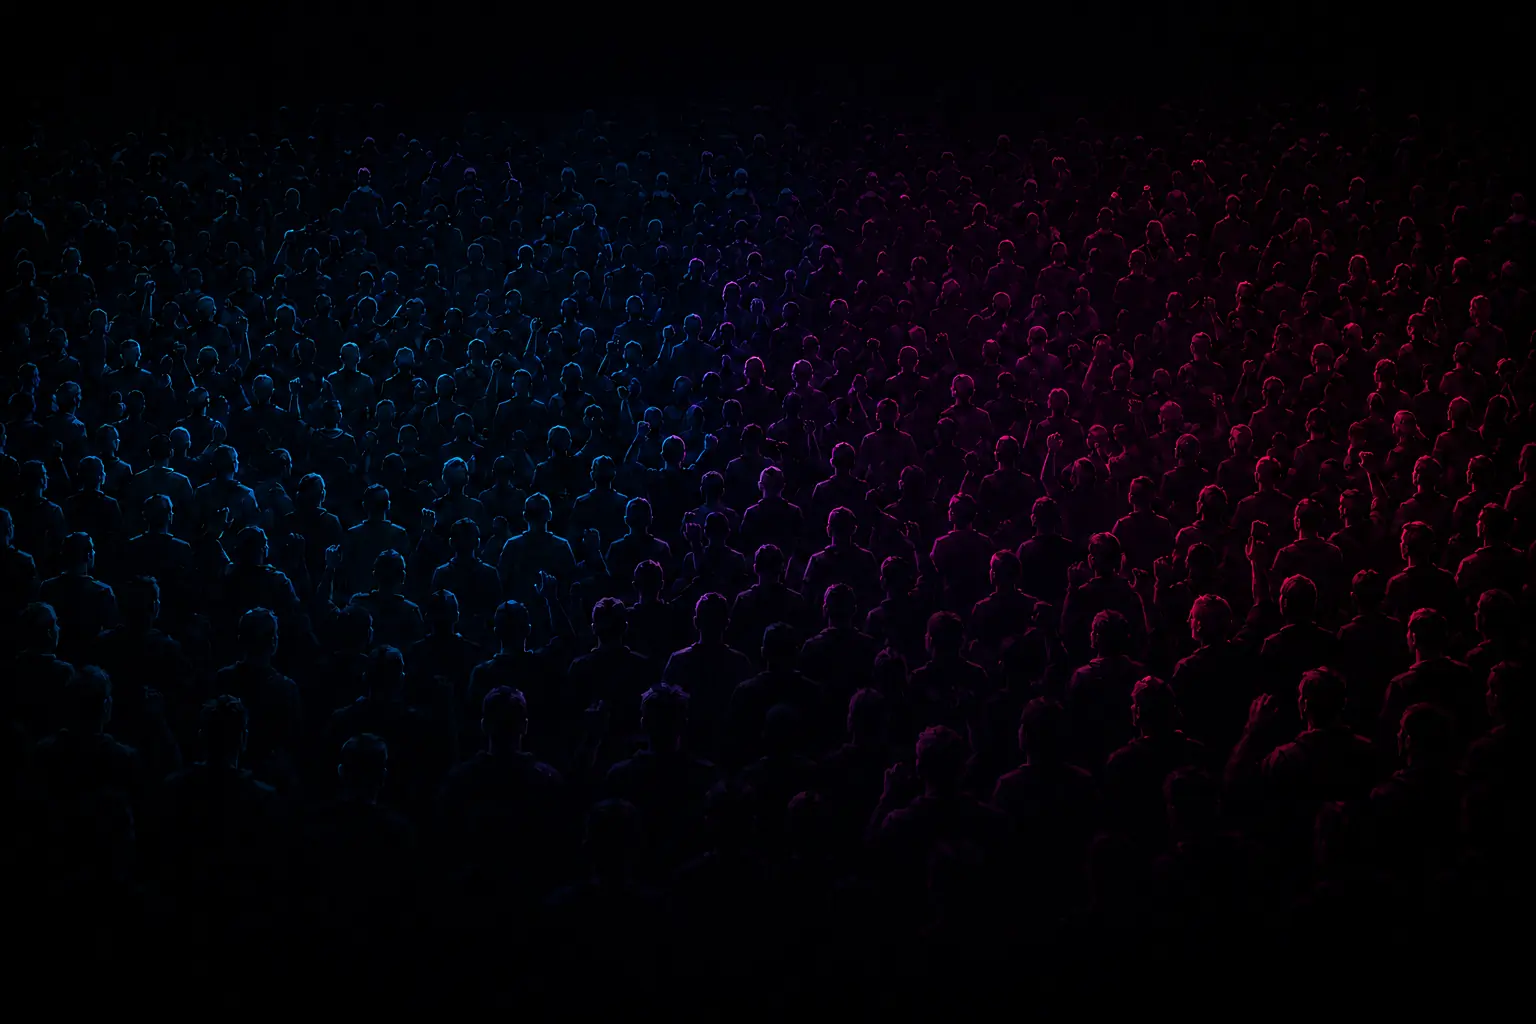
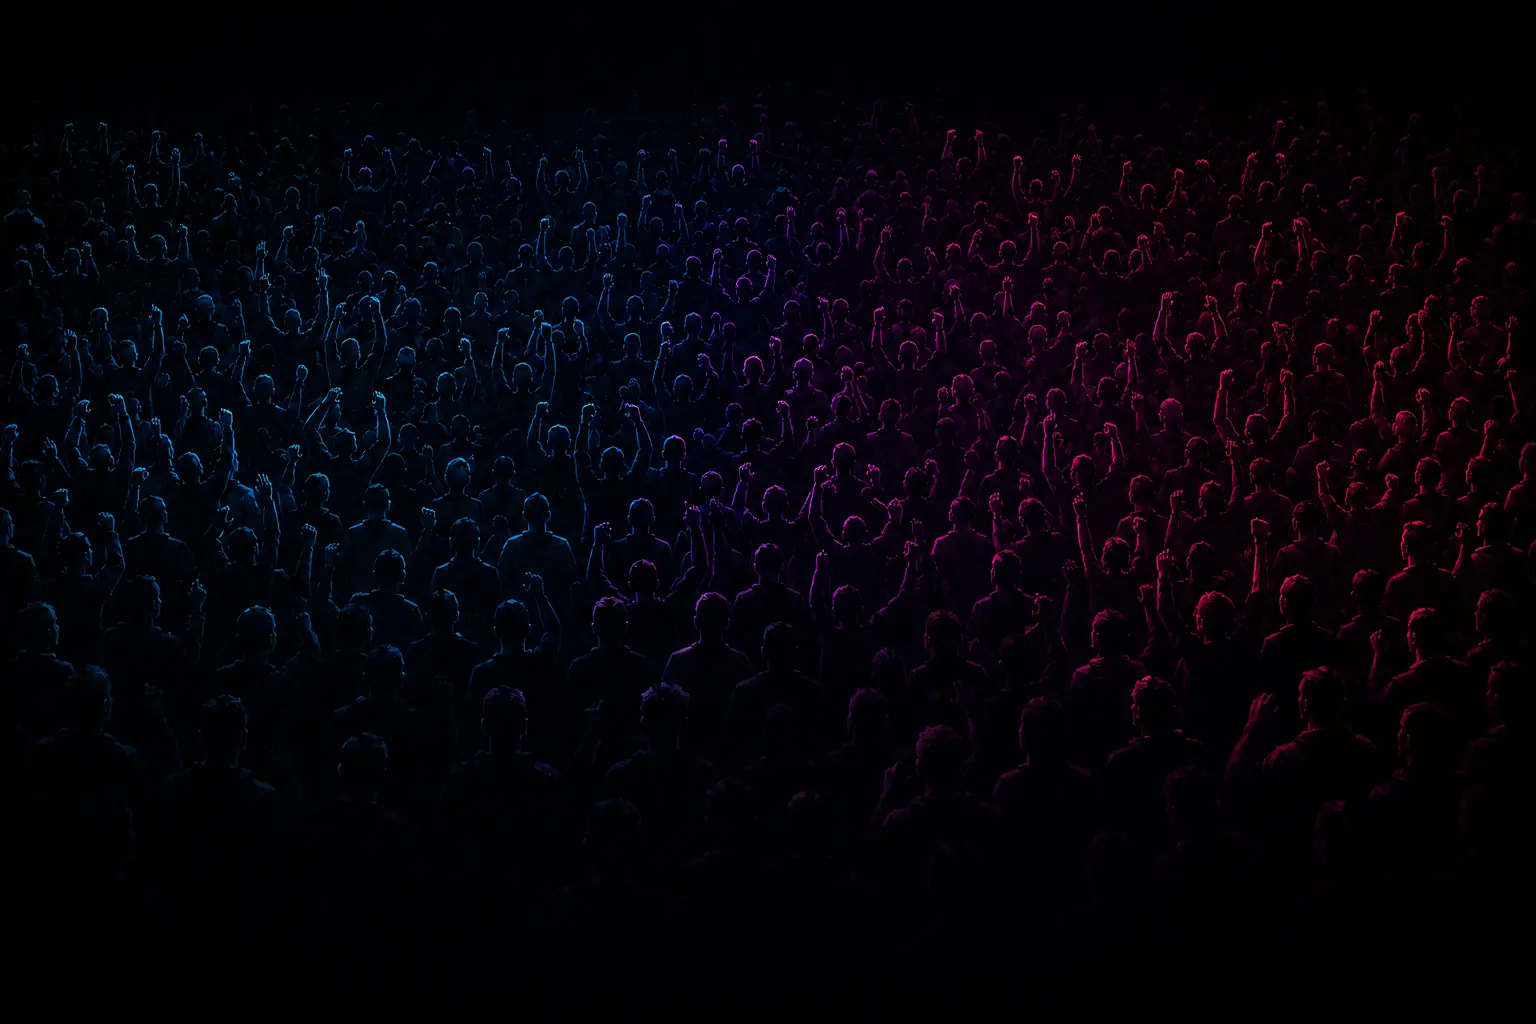
Animate jumping crowd and prune unused art

diff --git a/game.js b/game.js
@@ -103,7 +103,6 @@
     return HUD_HEALTH_STATES.find((state) => safeHealth >= state.minimum)
       ?? HUD_HEALTH_STATES.at(-1);
   };
-  const ARENA_BACKGROUND_SRC = "/assets/arenas/neon-octagon/arena.png";
   const ARENA_FOREGROUND_SRC = "/assets/arenas/neon-octagon/arena-foreground-v2.png";
   const ARENA_CROWD_FRAME_SRCS = Object.freeze([
     "/assets/arenas/neon-octagon/crowd/frame-01.webp",
@@ -111,16 +110,14 @@
     "/assets/arenas/neon-octagon/crowd/frame-03.webp",
   ]);
   const ARENA_VERTICAL_CROP_ANCHOR = 0.35;
-  const ARENA_CROWD_FRAME_SECONDS = 2;
-  const ARENA_CROWD_BLEND_FRACTION = 0.28;
+  const ARENA_CROWD_FRAME_SECONDS = 0.7;
+  const ARENA_CROWD_BLEND_FRACTION = 0.35;
   const ARENA_REDUCED_MOTION = globalThis.matchMedia?.("(prefers-reduced-motion: reduce)")?.matches ?? false;
 
   const ANIMATION_MANIFEST = globalThis.NEON_BRAWL_ANIMATIONS;
   if (!ANIMATION_MANIFEST) {
     throw new Error("Animation manifest must load before game.js");
   }
-  const arenaBackgroundImage = new Image();
-  arenaBackgroundImage.src = ARENA_BACKGROUND_SRC;
   const arenaForegroundImage = new Image();
   arenaForegroundImage.src = ARENA_FOREGROUND_SRC;
   const arenaCrowdImages = ARENA_CROWD_FRAME_SRCS.map((source) => {
@@ -2875,7 +2872,7 @@
       if (foregroundReady && crowdReady) {
         this.drawArenaCrowd(context);
         this.drawArenaLayer(context, arenaForegroundImage);
-      } else if (!this.drawArenaLayer(context, arenaBackgroundImage)) {
+      } else {
         this.drawLegacyOctagon(context);
       }
     }

diff --git a/index.html b/index.html
@@ -271,7 +271,7 @@
       <footer class="footer-note">
         <span><i></i> SYSTEM ONLINE</span>
         <p>ESC para pausar · Cada crítico tiene 1 de 2.2 de probabilidad de knockdown</p>
-        <span>BUILD 0.23.1 // CROWD ONLY</span>
+        <span>BUILD 0.24.0 // JUMPING CROWD</span>
       </footer>
     </main>
 

diff --git a/docs/arena-system.md b/docs/arena-system.md
@@ -11,11 +11,10 @@ public/assets/arenas/neon-octagon/
 │   ├── frame-02.webp
 │   └── frame-03.webp
 ├── arena-foreground-v2.png
-├── arena.json
-└── arena.png
+└── arena.json
 ```
 
-`arena-foreground-v2.png` is a transparent foreground containing the unchanged floor, cage mesh, rails, and posts. The three WebP files contain only the audience behind the fence. `arena.png` is the original complete plate and remains the loading/error fallback. `arena.json` records every layer, source dimension, viewport crop, fighter layout, and shadow configuration.
+`arena-foreground-v2.png` is a transparent foreground containing the unchanged floor, cage mesh, rails, and posts. The three WebP files contain only the audience behind the fence. `arena.json` records every layer, source dimension, viewport crop, fighter layout, and shadow configuration. The obsolete complete arena plate was removed because it duplicated the foreground and first crowd state; `drawLegacyOctagon` provides a zero-download loading/error fallback.
 
 ## Viewport composition
 
@@ -46,9 +45,9 @@ The arena uses a fixed-over-moving layer stack:
 2. the same transparent arena foreground is drawn over them every frame;
 3. fighters, particles, and the HUD are drawn over the completed fixed arena.
 
-Only the audience changes. The floor, center logo, cage geometry, posts, mesh, camera, and arena illumination come from one immutable foreground, preventing the vibration that occurs when complete generated arena images are alternated. Each audience state lasts `2` seconds: it remains fully visible for the first 72% and crossfades during the final 28%. This makes the changed poses readable while preventing a hard cut. The complete three-state loop lasts six seconds. The compressed crowd payload is approximately 198 KB. When reduced motion is requested, the first crowd image remains static.
+Only the audience changes. The floor, center logo, cage geometry, posts, mesh, camera, and arena illumination come from one immutable foreground, preventing the vibration that occurs when complete generated arena images are alternated. The three labeled poses are `crowd-low`, `crowd-takeoff`, and `crowd-jump-apex`. Each lasts `0.7` seconds: it remains fully visible for the first 65% and crossfades during the final 35%. The complete jump loop lasts `2.1` seconds. Scattered groups lift their bodies and raise hands at irregular positions so the audience feels active without moving as one synchronized wall. The compressed crowd payload is approximately 212 KB. When reduced motion is requested, the low pose remains static.
 
-The three crowd frames are decoded once and use the same 1536 × 1024 crop as the fixed foreground. Canvas draws only one crowd bitmap during the 72% hold and temporarily draws the adjacent image during the short crossfade. There are no videos, animated GIFs, procedural light beams, audience sparkles, rail sweeps, per-pixel effects, or gameplay/network synchronization. This makes the crowd swap the only animated background work.
+The three crowd frames are decoded once and use the same 1536 × 1024 crop as the fixed foreground. Canvas draws only one crowd bitmap during the 65% hold and temporarily draws the adjacent image during the short crossfade. There are no videos, animated GIFs, procedural light beams, audience sparkles, rail sweeps, per-pixel effects, or gameplay/network synchronization. This makes the crowd swap the only animated background work.
 
 The previous cyan upper-left and magenta lower-right viewport brackets were removed. They were interface decoration rather than part of the octagon artwork and could appear as disconnected corner pieces at some sizes.
 
@@ -64,4 +63,4 @@ The normalized sprite cells retain approximately eight transparent pixels below 
 
 ## Fallback
 
-The original complete `arena.png` is drawn until both the transparent foreground and at least one crowd image are ready. The previous procedural arena remains available as `drawLegacyOctagon` if that fallback also fails.
+The lightweight procedural `drawLegacyOctagon` scene is drawn until both the transparent foreground and the first crowd image are ready. It is also the error fallback if either required layer cannot load.

diff --git a/README.md b/README.md
@@ -117,7 +117,7 @@ npm run build
 - Two-level mode selection that cleanly separates Local and Online play
 - Competitive HUD with condition-based head/body icons and one layered stamina meter
 - Dedicated Neon MMA arena plate with reference-aligned fighter placement and dual-foot contact shadows
-- Fixed transparent cage and floor over three held-and-crossfaded crowd states with no procedural lighting pass
+- Fixed transparent cage and floor over a 2.1-second low/takeoff/jump-apex crowd loop with no procedural lighting pass
 - Aspect-safe 16:9 viewport, fullscreen letterboxing, high-density Canvas rendering up to 2×, and container-responsive menus
 - Quick Fight, Local Sparring, and infinite-time Practice Lab
 - Three 3-minute rounds with 10-9 scoring

diff --git a/docs/character-sprite-library.md b/docs/character-sprite-library.md
@@ -59,7 +59,7 @@ The files have distinct responsibilities:
 | `<movement>/movement.json` | Generated local metadata and exact frame list | No; regenerate |
 | `<movement>/frames/*.png` | Editable individual frame artwork | Yes |
 | `<movement>/sheet.png` | Runtime atlas built from the frame PNGs | Do not hand-edit when frames are authoritative |
-| `source-archive/original-assets/` | Preserved pre-migration sheets and old revisions | Preserve; do not use at runtime |
+| `source-archive/original-assets/` | Canonical pre-migration sheets referenced by movement metadata | Preserve referenced sources; remove superseded unreferenced revisions |
 
 `animation-manifest.js` plus the editable frame PNGs are the maintained source. JSON catalogs and runtime atlases are reproducible outputs.
 

diff --git a/public/assets/characters/README.md b/public/assets/characters/README.md
@@ -2,7 +2,7 @@
 
 Runtime sprites are separated by character. `rook/` and `vex/` each contain a complete movement library with generated JSON catalogs, one atlas per movement, and individually editable frame PNGs.
 
-Do not load files from `prototype-fighter/source-archive/` in game code. That directory preserves original and deprecated source sheets for provenance.
+Do not load files from `prototype-fighter/source-archive/` in game code. That directory preserves only canonical source sheets referenced by movement metadata. Superseded revisions without an `archiveSource` reference are intentionally removed.
 
 Common commands from the repository root:
 